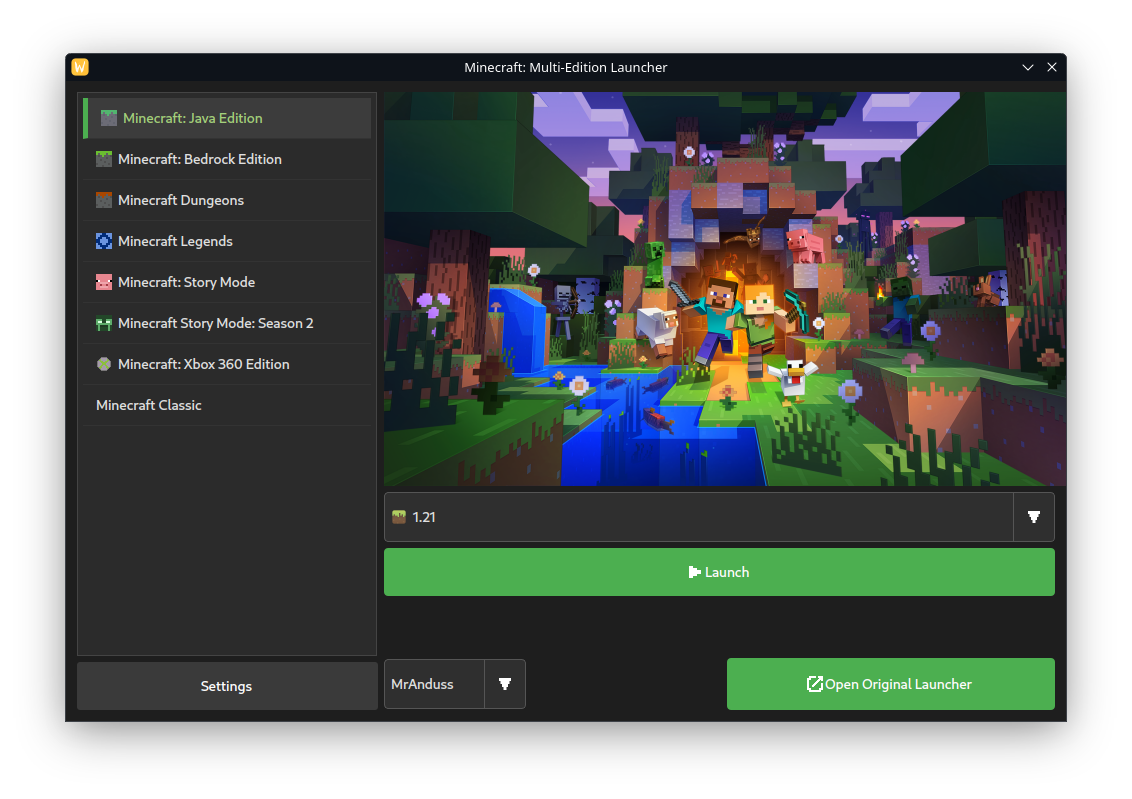
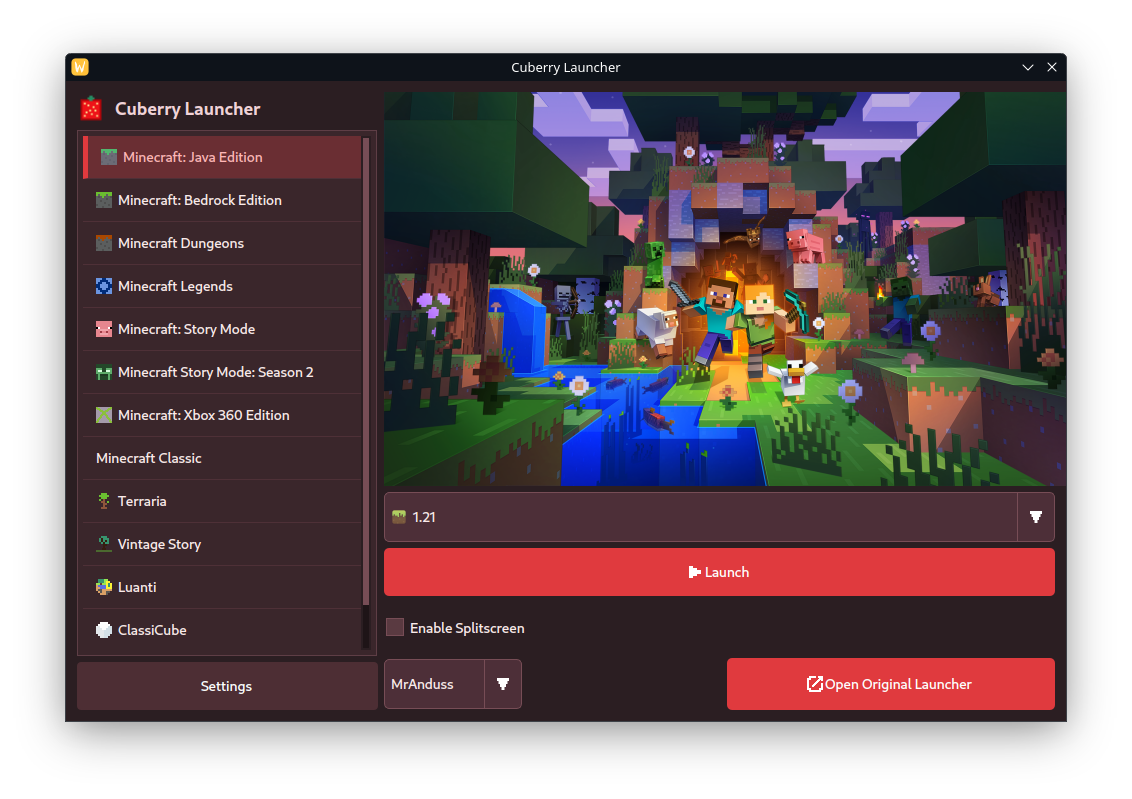
Rebranded to Cuberry

diff --git a/index.html b/index.html
@@ -4,7 +4,8 @@
 <head>
     <meta charset="UTF-8" />
     <meta name="viewport" content="width=device-width, initial-scale=1.0" />
-    <title>MCMEL - Minecraft Multi-Edition Launcher</title>
+    <title>Cuberry Launcher</title>
+    <link rel="icon" type="image/x-icon" href="/logo.png">
     <link href="https://fonts.googleapis.com/css2?family=Open+Sans:wght@600&display=swap" rel="stylesheet">
     <link rel="stylesheet" href="style.css" />
 </head>
@@ -12,7 +13,8 @@
 <body>
     <header>
         <div class="wrapper">
-            <h1>Minecraft: Multi-Edition Launcher</h1>
+            <img src="/logo.png" width="64">
+            <h1>Cuberry Launcher</h1>
             <nav>
                 <a href="#features" class="button">Features</a>
                 <a href="#downloads" class="button primary">Download</a>
@@ -22,9 +24,8 @@
 
     <main class="wrapper">
         <section class="intro">
-            <h2>One launcher for every Minecraft edition</h2>
-            <p>MCMEL lets you launch <strong>Java, Bedrock, Dungeons, Legends, and more</strong> — all from one place on
-                Linux.</p>
+            <h2>One launcher for multiple games</h2>
+            <p>A handy Linux launcher that lets you run multiple sandbox voxel games all in one place.</p>
             <a href="#downloads" class="button primary">Download Now</a>
         </section>
 
@@ -44,13 +45,18 @@
             <div class="feature-item">
                 <div class="feature-text">
                     <h3>Configure & Launch</h3>
-                    <p>Enable or hide editions as you wish. Use your favorite launchers for each version:</p>
+                    <p>Enable or hide games as you wish. Use your favorite launchers for each game:</p>
                     <ul>
-                        <li><strong>Java:</strong> MultiMC, Prism Launcher</li>
-                        <li><strong>Bedrock:</strong> MCPE Launcher</li>
-                        <li><strong>Dungeons, Legends, Story Mode 1 & 2:</strong> Steam or Lutris (GOG)</li>
-                        <li><strong>Xbox 360:</strong> Xenia with Proton Experimental</li>
-                        <li><strong>Classic:</strong> Web Browser</li>
+                        <li><strong>MC Java:</strong> MultiMC, Prism Launcher, (and more based on MultiMC)</li>
+                        <li><strong>MC Bedrock:</strong> MCPE Launcher</li>
+                        <li><strong>MC Dungeons, Legends:</strong> Steam</li>
+                        <li><strong>MC Story Mode 1 & 2:</strong> Steam or Lutris (GOG)</li>
+                        <li><strong>MC Xbox 360:</strong> Xenia with Proton Experimental</li>
+                        <li><strong>MC Classic:</strong> Web Browser</li>
+                        <li><strong>Vintage Story:</strong> Binary or Flatpak</li>
+                        <li><strong>Terraria:</strong> Steam</li>
+                        <li><strong>Luanti (formerly Minetest):</strong> Binary or Flatpak</li>
+                        <li><strong>Classicube:</strong> Binary</li>
                     </ul>
                 </div>
                 <img src="/screenshots/settings.png" alt="Configure and Launch" />
@@ -60,7 +66,7 @@
                 <img src="/screenshots/update.png" alt="Update Checker" />
                 <div class="feature-text">
                     <h3>Update Checker</h3>
-                    <p>MCMEL checks for new updates every time you launch it - so you’re always running the latest version with the newest features and fixes.</p>
+                    <p>Cuberry checks for new updates every time you launch it - so you’re always running the latest version with the newest features and fixes.</p>
                 </div>
             </div>
         </section>
@@ -68,39 +74,39 @@
         <hr>
 
         <section id="downloads" class="downloads">
-            <h2>Get MCMEL:</h2>
+            <h2>Get Cuberry:</h2>
             <div class="button-group">
                 <a id="downloadBinary" class="button primary" href="#" target="_blank" rel="noopener noreferrer">Download the binary</a>
                 <a href="#" class="button">Install with Flatpak (not ready)</a>
-                <a id="downloadOlder" class="button" href="https://github.com/andusdev/mcmel/releases">Older Releases</a>
+                <a id="downloadOlder" class="button" href="https://github.com/AndusDEV/Cuberry/releases">Older Releases</a>
             </div>
         </section>
 
         <section id="extras" class="downloads">
             <h3>Extras:</h3>
-            <p>Download extras for MCMEL:</p>
+            <p>Download extras for Cuberry:</p>
             <a href="/desktop-gen" class="button primary">Generate a .desktop file</a>
             <ul>
-                <li>Add MCMEL to your app launcher menu or desktop.</li>
+                <li>Add Cuberry to your app launcher menu or desktop.</li>
             </ul>
         </section>
     </main>
 
     <footer>
-        <p><a href="https://github.com/andusdev/mcmel">Source Code</a> | <a href="https://discord.gg/xjYFtN3pCw">Discord Server</a></p>
-        <p>© 2025 MCMEL Project - Not affiliated with Mojang or Microsoft.</p>
+        <p><a href="https://github.com/AndusDEV/Cuberry">Source Code</a> | <a href="https://discord.gg/xjYFtN3pCw">Discord Server</a></p>
+        <p>© 2025 Cuberry Project - Not affiliated with any of the games present in the launcher.</p>
     </footer>
 
     <script>
         async function setDownloadLink() {
             const downloadLink = document.getElementById('downloadBinary');
             try {
-                const response = await fetch('https://api.github.com/repos/AndusDEV/MCMEL/releases/latest');
+                const response = await fetch('https://api.github.com/repos/AndusDEV/Cuberry/releases/latest');
                 if (!response.ok) throw new Error('Failed to fetch release info');
                 const release = await response.json();
 
-                const asset = release.assets.find(a => a.name.toLowerCase() === 'mcmel.zip');
-                if (!asset) throw new Error('MCMEL.zip asset not found in latest release');
+                const asset = release.assets.find(a => a.name.toLowerCase() === 'cuberry.zip');
+                if (!asset) throw new Error('Cuberry.zip asset not found in latest release');
 
                 downloadLink.href = asset.browser_download_url;
             } catch (err) {

diff --git a/style.css b/style.css
@@ -1,7 +1,7 @@
 body {
   font-family: "Segoe UI", Arial, sans-serif;
-  background-color: #1e1e1e;
-  color: #e0e0e0;
+  background-color: #2b1e22;
+  color: #fbeaea;
   margin: 0;
 }
 
@@ -20,13 +20,13 @@ h3, h4 {
 }
 
 header {
-  background: #2b2b2b;
+  background: #3c2a30;
   padding: 20px 0;
-  border-bottom: 1px solid #444;
+  border-bottom: 1px solid #5e3e46;
 }
 header h1 {
   margin: 0;
-  color: #a4d07b;
+  color: #e03a3e;
 }
 
 nav {
@@ -42,14 +42,14 @@ main {
 }
 
 .intro {
-  background: #252525;
+  background: #3a262b;
   padding: 40px;
   border-radius: 8px;
   text-align: center;
 }
 .intro h2 {
   margin-top: 0;
-  color: #a4d07b;
+  color: #e03a3e;
 }
 .intro p {
   max-width: 600px;
@@ -66,7 +66,7 @@ ul {
 }
 
 a {
-  color: #a4d07b;
+  color: #e03a3e;
   text-decoration: none;
 }
 a:hover {
@@ -74,15 +74,15 @@ a:hover {
 }
 
 footer {
-  background: #2b2b2b;
+  background: #3c2a30;
   text-align: center;
   padding: 20px 0;
-  border-top: 1px solid #444;
+  border-top: 1px solid #5e3e46;
 }
 
 .button {
-  background-color: #3a3a3a;
-  color: #fff;
+  background-color: #4d2f34;
+  color: #fbeaea;
   padding: 10px 20px;
   border-radius: 4px;
   text-decoration: none;
@@ -91,13 +91,13 @@ footer {
   margin: 10px 10px 0 0;
 }
 .button:hover {
-  background-color: #505050;
+  background-color: #6a3e43;
 }
 .button.primary {
-  background-color: #4caf50;
+  background-color: #e03a3e;
 }
 .button.primary:hover {
-  background-color: #66bb6a;
+  background-color: #ec4b4f;
 }
 
 .button-group {
@@ -125,7 +125,7 @@ footer {
   display: flex;
   align-items: center;
   gap: 20px;
-  background: #252525;
+  background: #3a262b;
   padding: 20px;
   border-radius: 8px;
 }
@@ -141,14 +141,14 @@ footer {
 label {
   display: block;
   margin-bottom: 15px;
-  color: #ccc;
+  color: #fbeaea;
 }
 
 input[type="text"] {
-  background-color: #2b2b2b;
-  border: 1px solid #555;
+  background-color: #4a2f36;
+  border: 1px solid #774d56;
   padding: 8px 12px;
-  color: #e0e0e0;
+  color: #fbeaea;
   border-radius: 3px;
   font-family: "Segoe UI", Arial, sans-serif;
   font-size: 14px;
@@ -158,12 +158,12 @@ input[type="text"] {
 
 input[type="text"]:focus {
   outline: none;
-  border-color: #4caf50;
-  box-shadow: 0 0 4px #4caf50;
+  border-color: #e03a3e;
+  box-shadow: 0 0 4px #e03a3e;
 }
 
 form .button.primary {
-  background-color: #4caf50;
+  background-color: #e03a3e;
   color: white;
   border: none;
   border-radius: 4px;
@@ -175,14 +175,14 @@ form .button.primary {
 }
 
 form .button.primary:hover {
-  background-color: #66bb6a;
+  background-color: #ec4b4f;
 }
 
 textarea#output {
-  background-color: #2b2b2b;
-  border: 1px solid #555;
+  background-color: #4a2f36;
+  border: 1px solid #774d56;
   padding: 12px;
-  color: #e0e0e0;
+  color: #fbeaea;
   border-radius: 4px;
   font-family: monospace;
   font-size: 14px;
@@ -191,6 +191,7 @@ textarea#output {
 
 hr {
   width: 100%;
+  border-color: #5e3e46;
 }
 
 /* Responsiveness */

diff --git a/desktop-gen/index.html b/desktop-gen/index.html
@@ -4,7 +4,7 @@
 <head>
     <meta charset="UTF-8" />
     <meta name="viewport" content="width=device-width, initial-scale=1.0" />
-    <title>.desktop File Generator — MCMEL</title>
+    <title>Cuberry - .desktop File Generator</title>
     <link rel="stylesheet" href="/style.css" />
     <link href="https://fonts.googleapis.com/css2?family=Open+Sans:wght@600&display=swap" rel="stylesheet">
 </head>
@@ -12,7 +12,7 @@
 <body>
     <header>
         <div class="wrapper">
-            <h1>MCMEL .desktop File Generator</h1>
+            <h1>Cuberry - .desktop File Generator</h1>
             <nav>
                 <a href="/" class="button">Return Home</a>
             </nav>
@@ -22,21 +22,21 @@
     <main class="wrapper">
         <section class="intro">
             <h2>Create a .desktop Launcher</h2>
-            <p>Generate a custom Linux launcher file for your MCMEL setup. Download the file, remove <code>.download</code> from the name,
-                make it executable, and place it in <code>~/.local/share/applications/</code>.</p>
+            <p>Generate a custom Linux launcher file for your Cuberry setup. Download the file, remove <code>.download</code> from the name,
+                make it executable, and place it in <code>~/.local/share/applications/</code> or on your desktop!</p>
         </section>
 
         <section id="generator">
             <form id="desktopForm">
                 <label>
                     <strong>Application Name:</strong><br>
-                    <input type="text" id="name" placeholder="e.g. MCMEL" required />
+                    <input type="text" id="name" placeholder="e.g. Cuberry" required />
                 </label>
                 <br>
 
                 <label>
                     <strong>Executable Path:</strong><br>
-                    <input type="text" id="exec" placeholder="/path/to/mcmel" required />
+                    <input type="text" id="exec" placeholder="/path/to/cuberry" required />
                 </label>
 
                 <br>
@@ -53,8 +53,8 @@
     </main>
 
     <footer>
-        <p><a href="https://github.com/andusdev/mcmel">Source Code</a> | <a href="https://discord.gg/xjYFtN3pCw">Discord Server</a></p>
-        <p>© 2025 MCMEL Project - Not affiliated with Mojang or Microsoft.</p>
+        <p><a href="https://github.com/AndusDEV/Cuberry">Source Code</a> | <a href="https://discord.gg/xjYFtN3pCw">Discord Server</a></p>
+        <p>© 2025 Cuberry Project - Not affiliated with any of the games present in the launcher.</p>
     </footer>
 
     <script>
@@ -75,8 +75,7 @@
             Name=${name}
             Exec=${exec}
             Path=${path}
-            Icon=minecraft
-            Comment=An all-in-one Minecraft Launcher
+            Comment=A handy Linux launcher for sandbox voxel games!
             Categories=Game;
             Terminal=false
             `;
